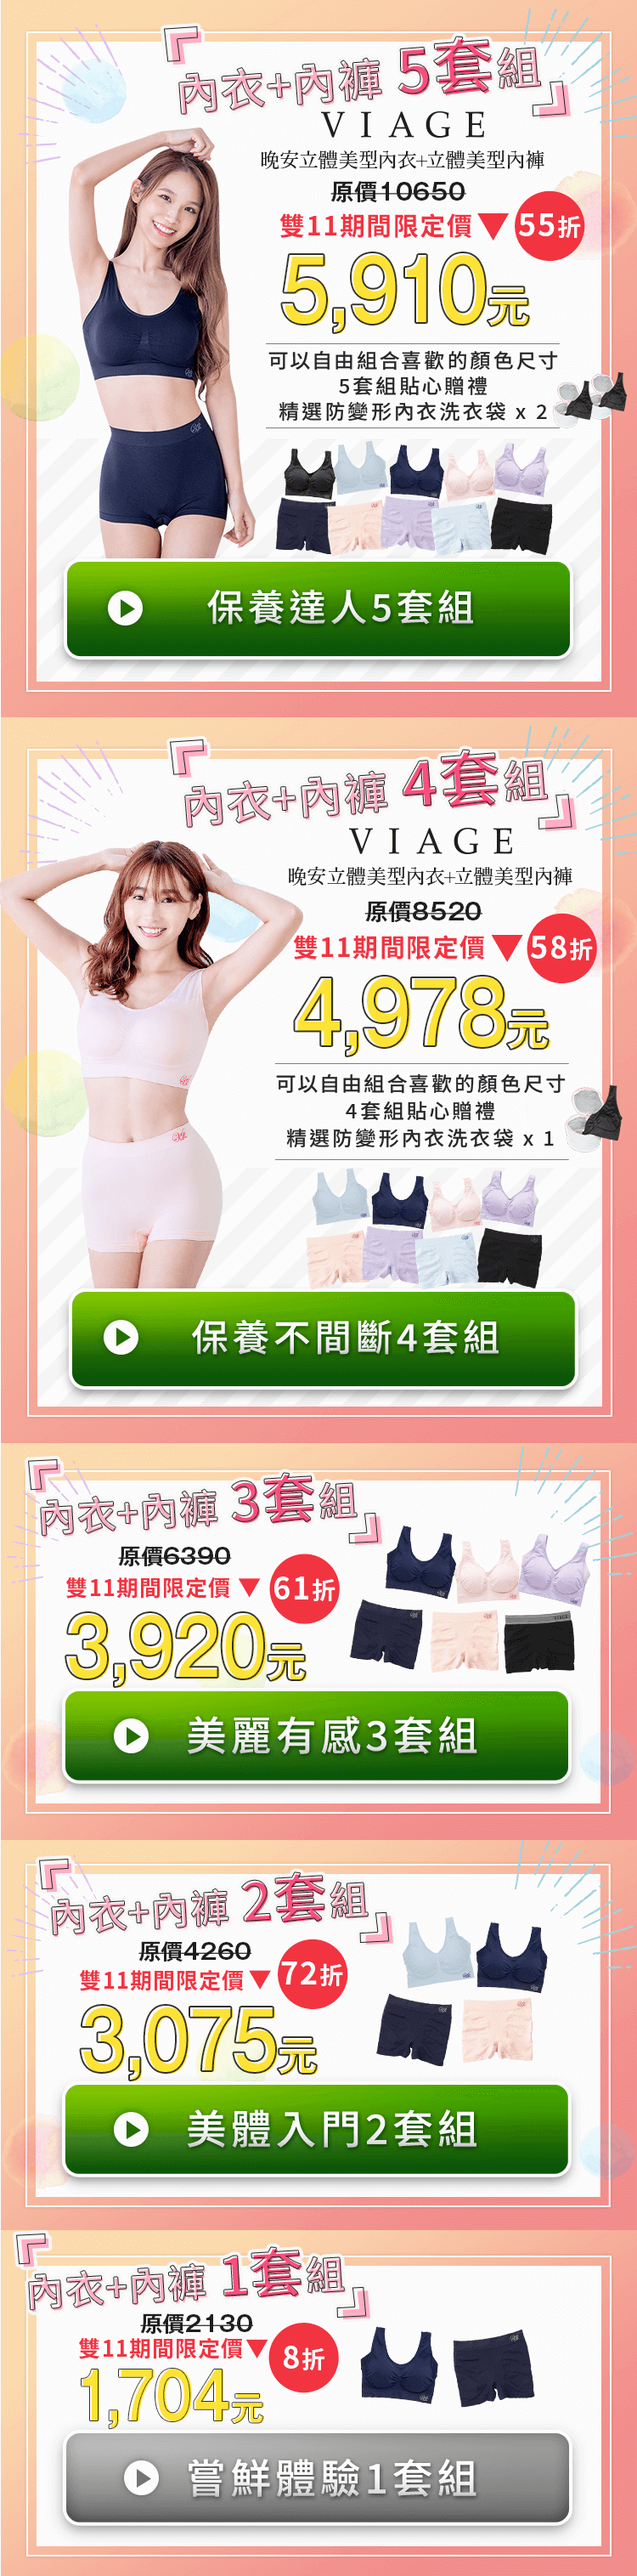
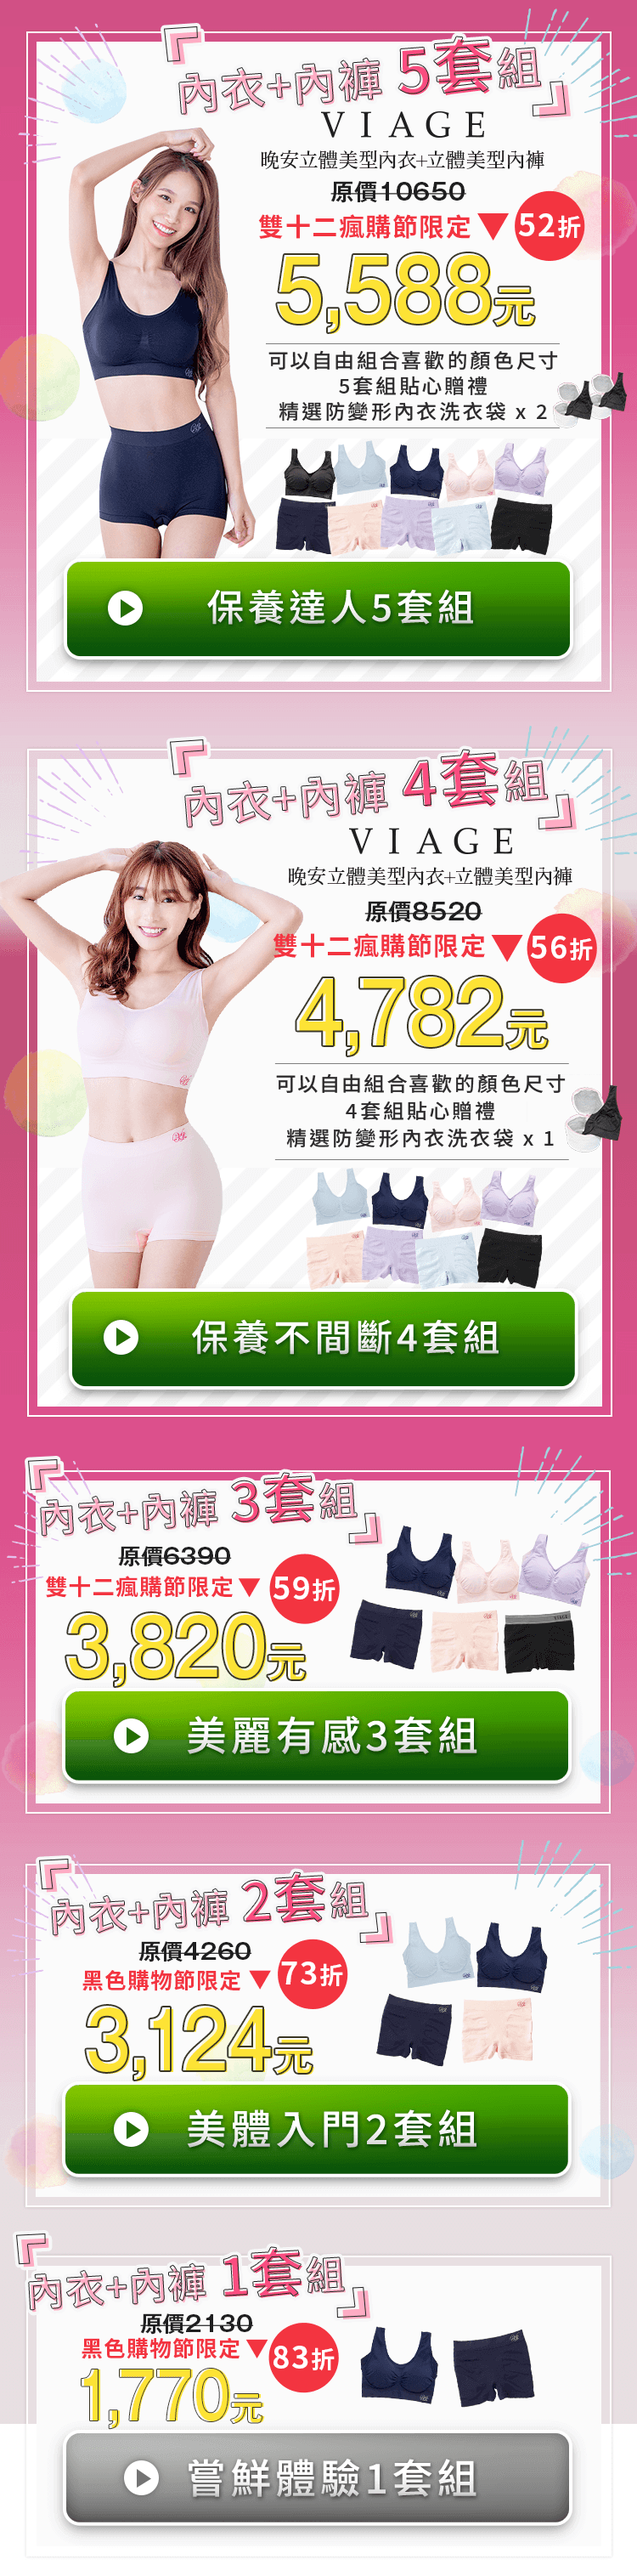
20211201_1212 update

Changed region(s): [[0.0, 0.0, 1.0, 1.0], [0.3987, 0.062, 0.828, 0.1551], [0.4293, 0.3411, 0.7973, 0.4032]]

diff --git a/index.html b/index.html
@@ -2,7 +2,7 @@
 <html>
 
 <head>
-    <title>Viage雙11優惠延長！老顧客折扣低至55折！整套保養一次到位👙</title>
+    <title>Viage雙12瘋購節！期間限定折扣低至52折！成套保養一次到位👙</title>
     <meta name="Description" content="老顧客優惠輕鬆維持美胸保養！日本夜間育乳術，告別外擴、下垂，立體有感好胸型！白天穿鋼圈內衣，運動時穿運動內衣，睡覺時怎麼能放任胸部走山7~8小時？">
     <meta name="keywords" content="viage,viage內衣,晚安內衣,夜晚美胸,Viage晚安立體美型內衣">
     <!-- FB-->
